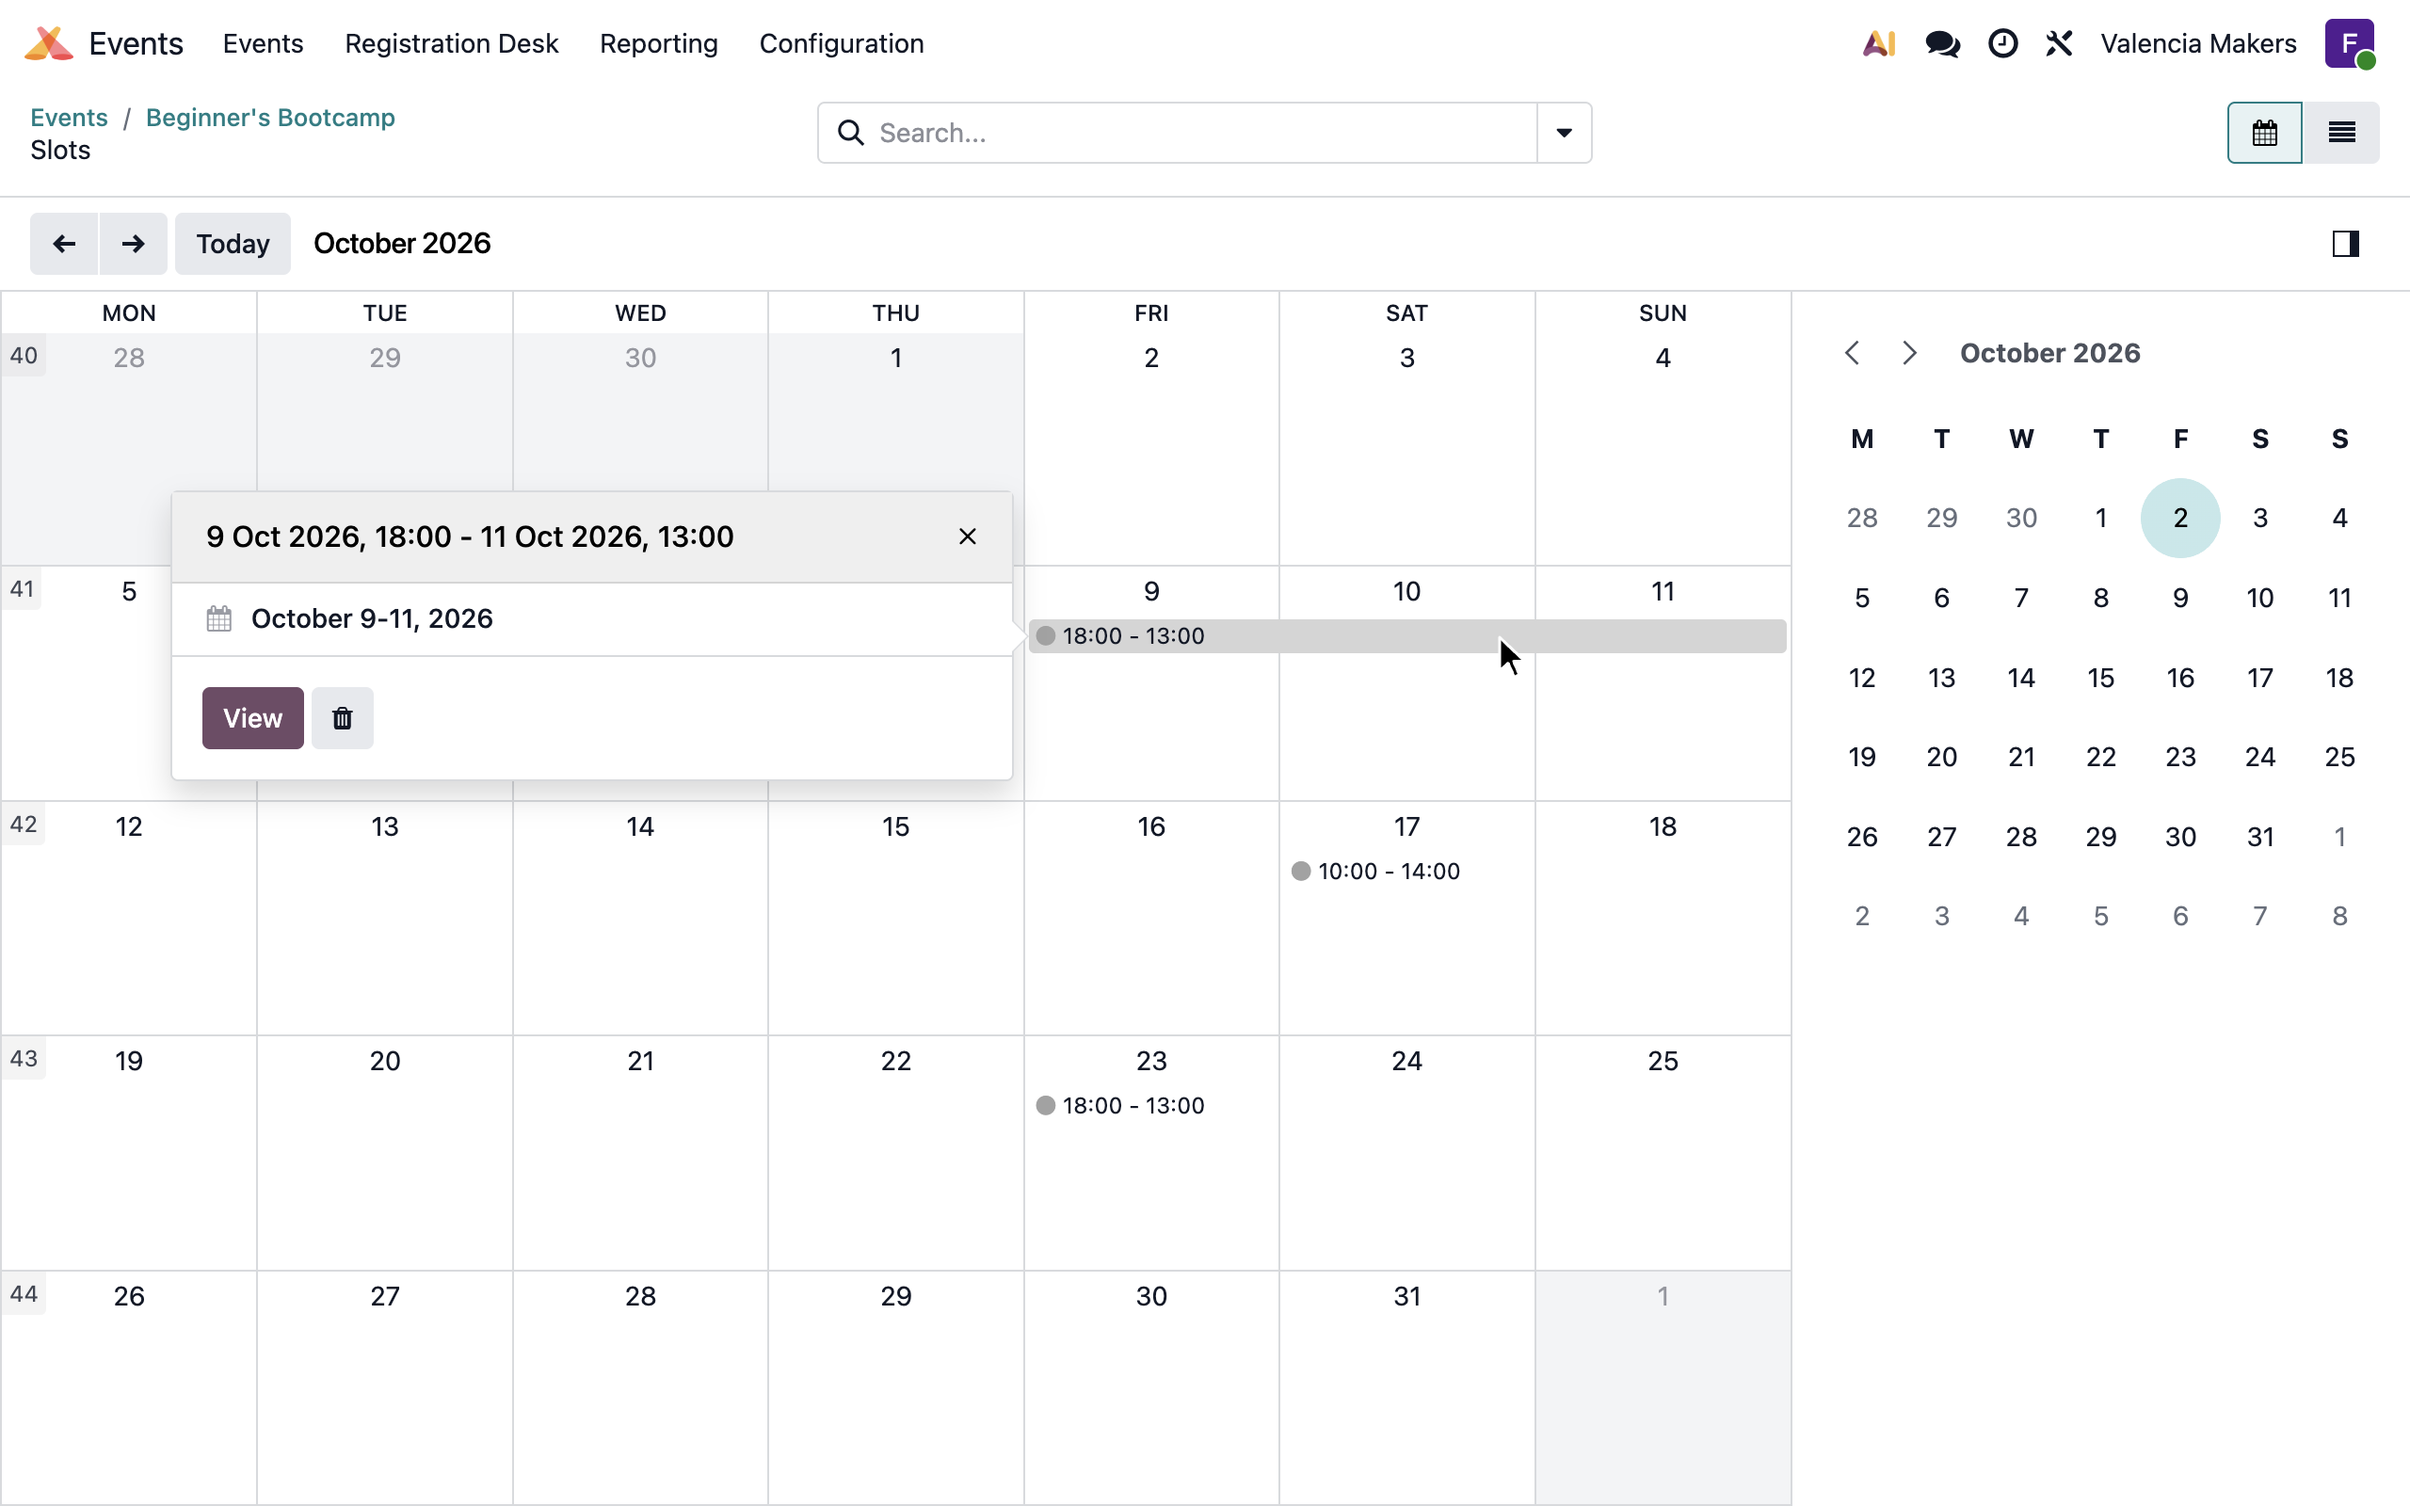
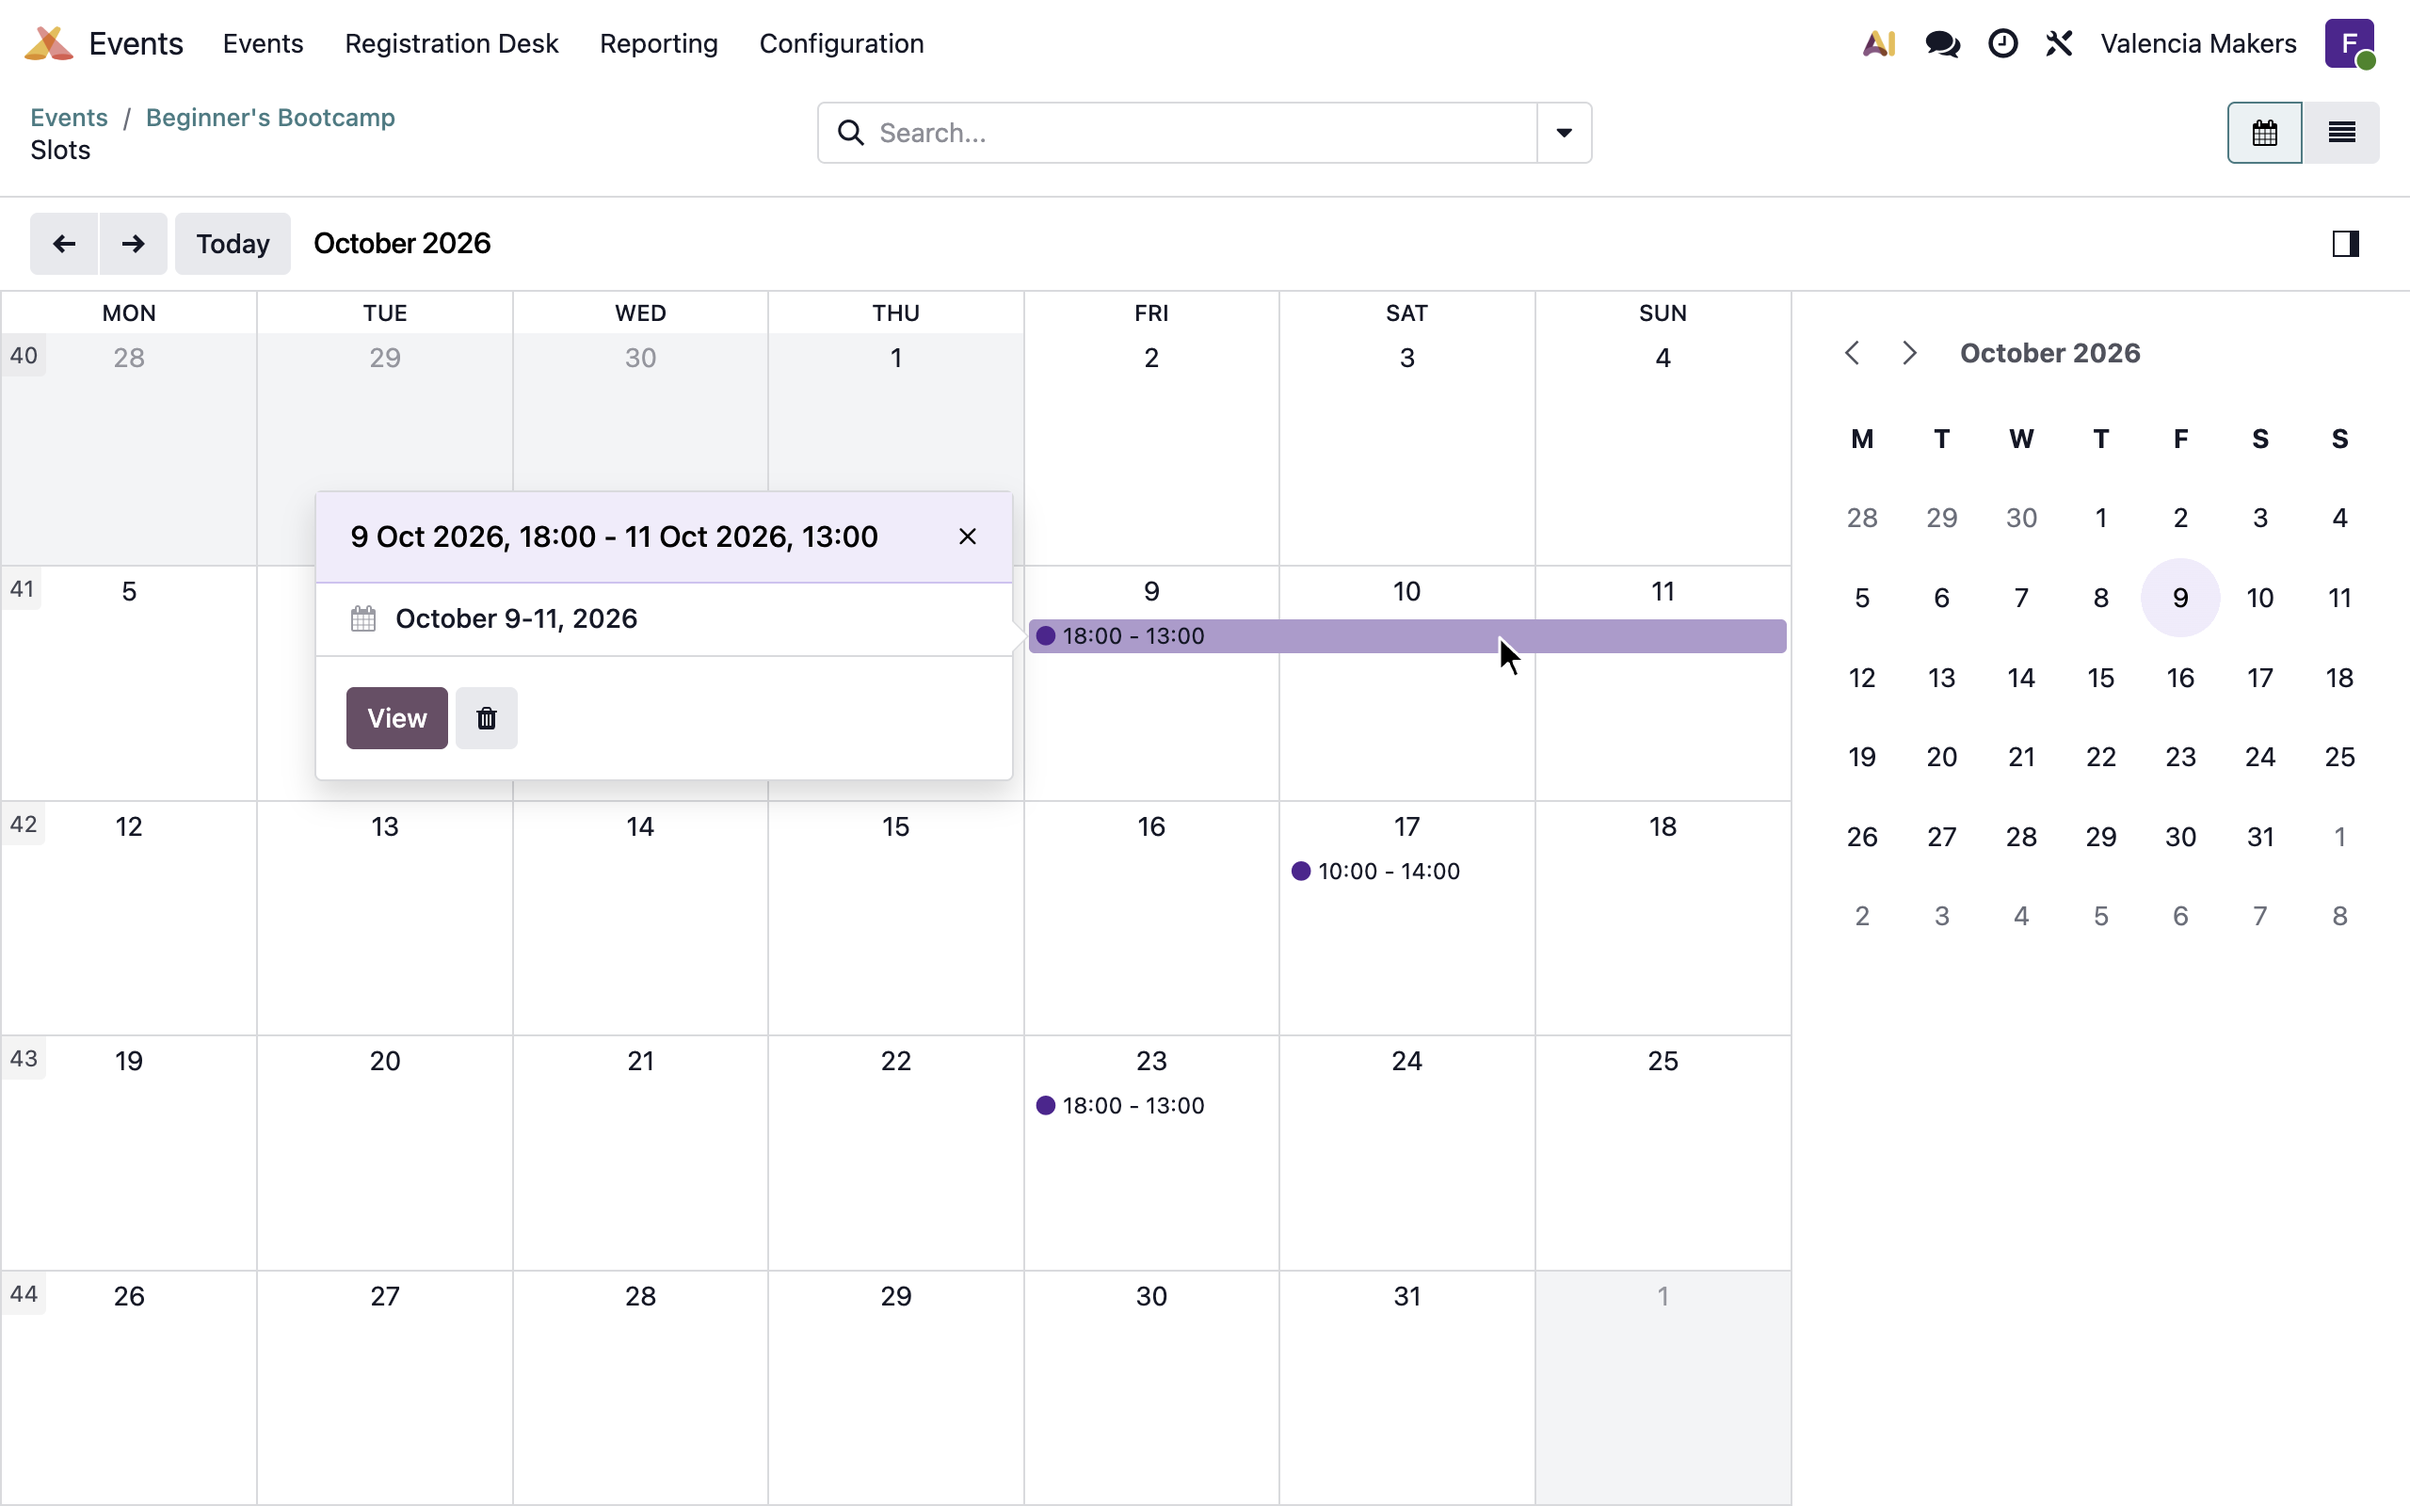
Retake the multi-day screenshots with screenshot-only polish
- CSS injected only while capturing, never shipped in a module: the calendar popover sized to its
  title, the slot form held to 760px with the range at its natural width, and the registration
  window packed to its dates (708px, from 980px) and titled "Event Slots".
- The slots use Odoo's own Color field, set to Violet, repainted #531B93 in the capture so the
  bar, dots, popover, and form's colour dot are our purple.
- The sidebar's current-date circle is moved to 9 October, the slot's first day, and painted the
  popover title bar's violet; core opens on the event's start and circles it in teal.
- The website page's slot_calendar.png is a byte-identical copy of the main screenshot, and its
  narrower registration window is shown at up to 800px rather than stretched full width.

diff --git a/vmk_website_event_slot_multiday/static/description/index.html b/vmk_website_event_slot_multiday/static/description/index.html
@@ -3,7 +3,7 @@
         <h2 class="oe_slogan" style="font-family:Lato, 'Open Sans', Helvetica, sans-serif; font-weight:300; text-align:center; margin:32px 0; font-size:40px; line-height:48px; color:#531B93;">Multi-Day Event Slots (Website)</h2>
         <h3 class="oe_slogan" style="font-family:Lato, 'Open Sans', Helvetica, sans-serif; font-weight:300; text-align:center; margin:32px 0; font-size:26px; line-height:31px; color:#333333; opacity:0.5;">Publish weekend retreats, overnight hackathons, and multi-day courses as slots</h3>
         <div class="oe_span12">
-            <img class="oe_screenshot" style="max-width:100%;" src="main_screenshot.png" alt="The website's registration window, with a slot selected from Fri, 9 Oct 2026, 18:00 to Sun, 11 Oct 2026, 13:00"/>
+            <img class="oe_screenshot" style="display:block; width:100%; max-width:800px; margin:0 auto;" src="main_screenshot.png" alt="The website's registration window, with a slot selected from Fri, 9 Oct 2026, 18:00 to Sun, 11 Oct 2026, 13:00"/>
         </div>
         <div class="oe_span12">
             <div class="oe_mt32" style="max-width:700px; margin-left:auto; margin-right:auto;">
